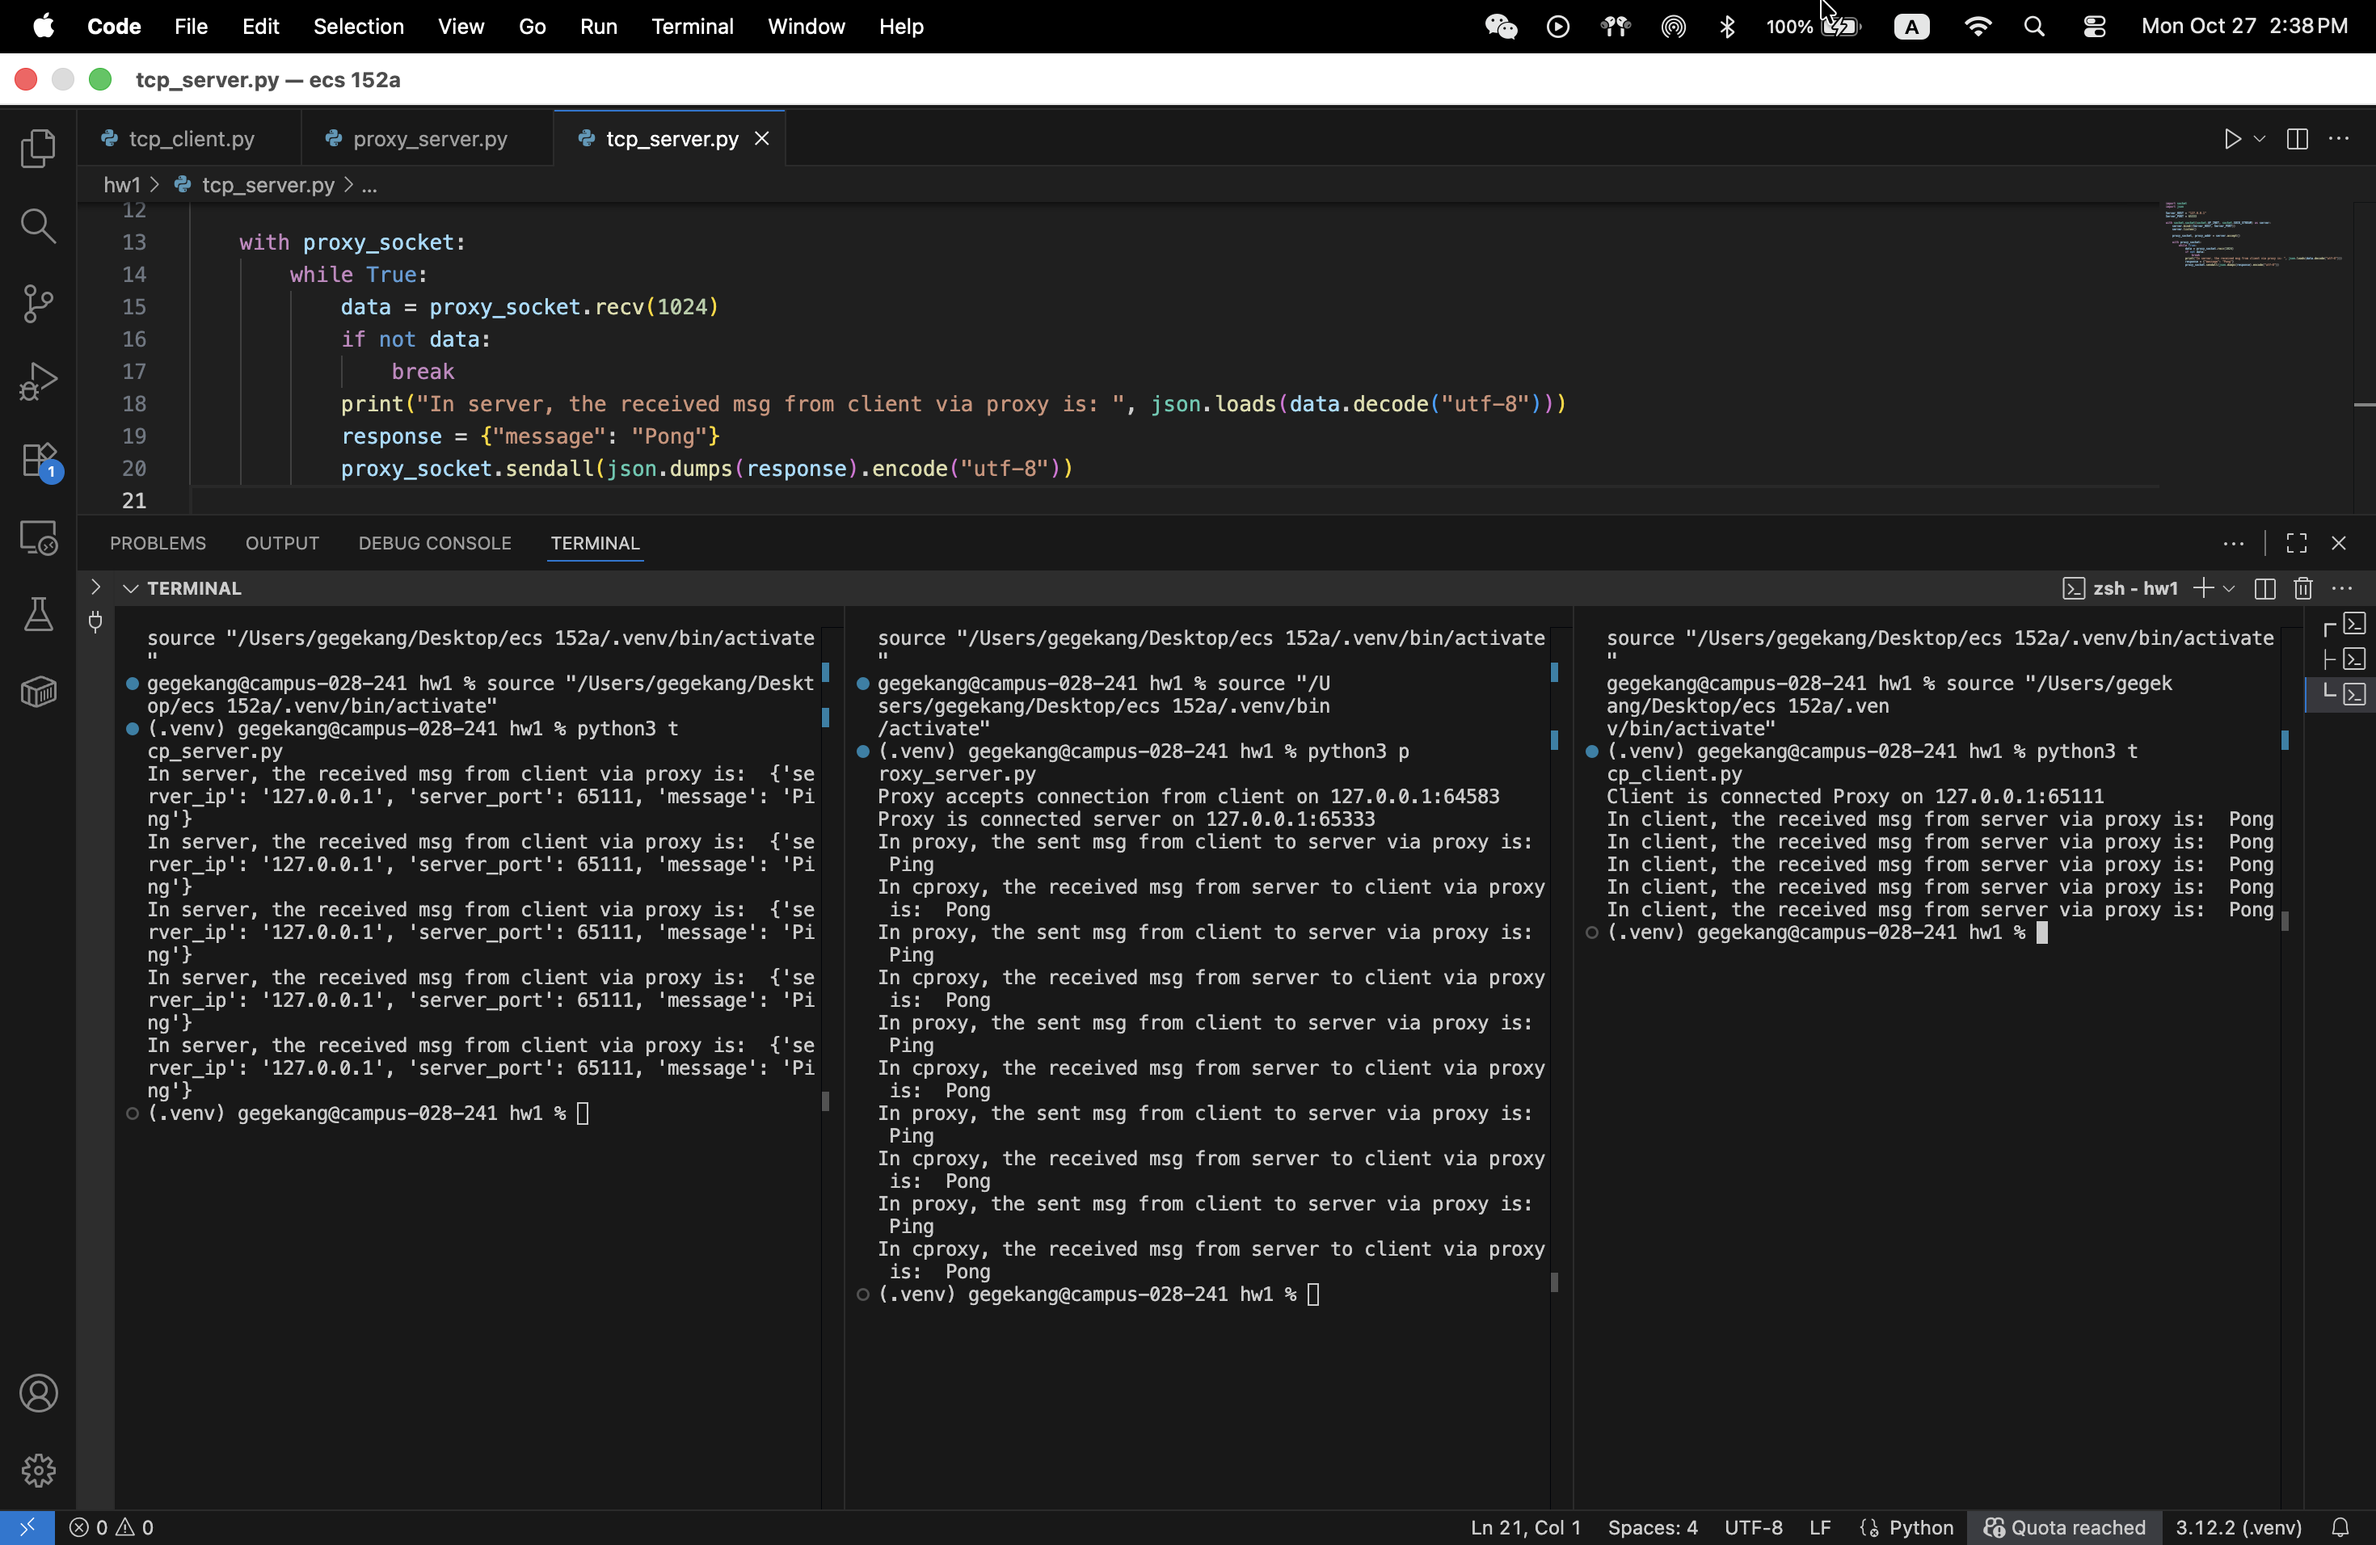
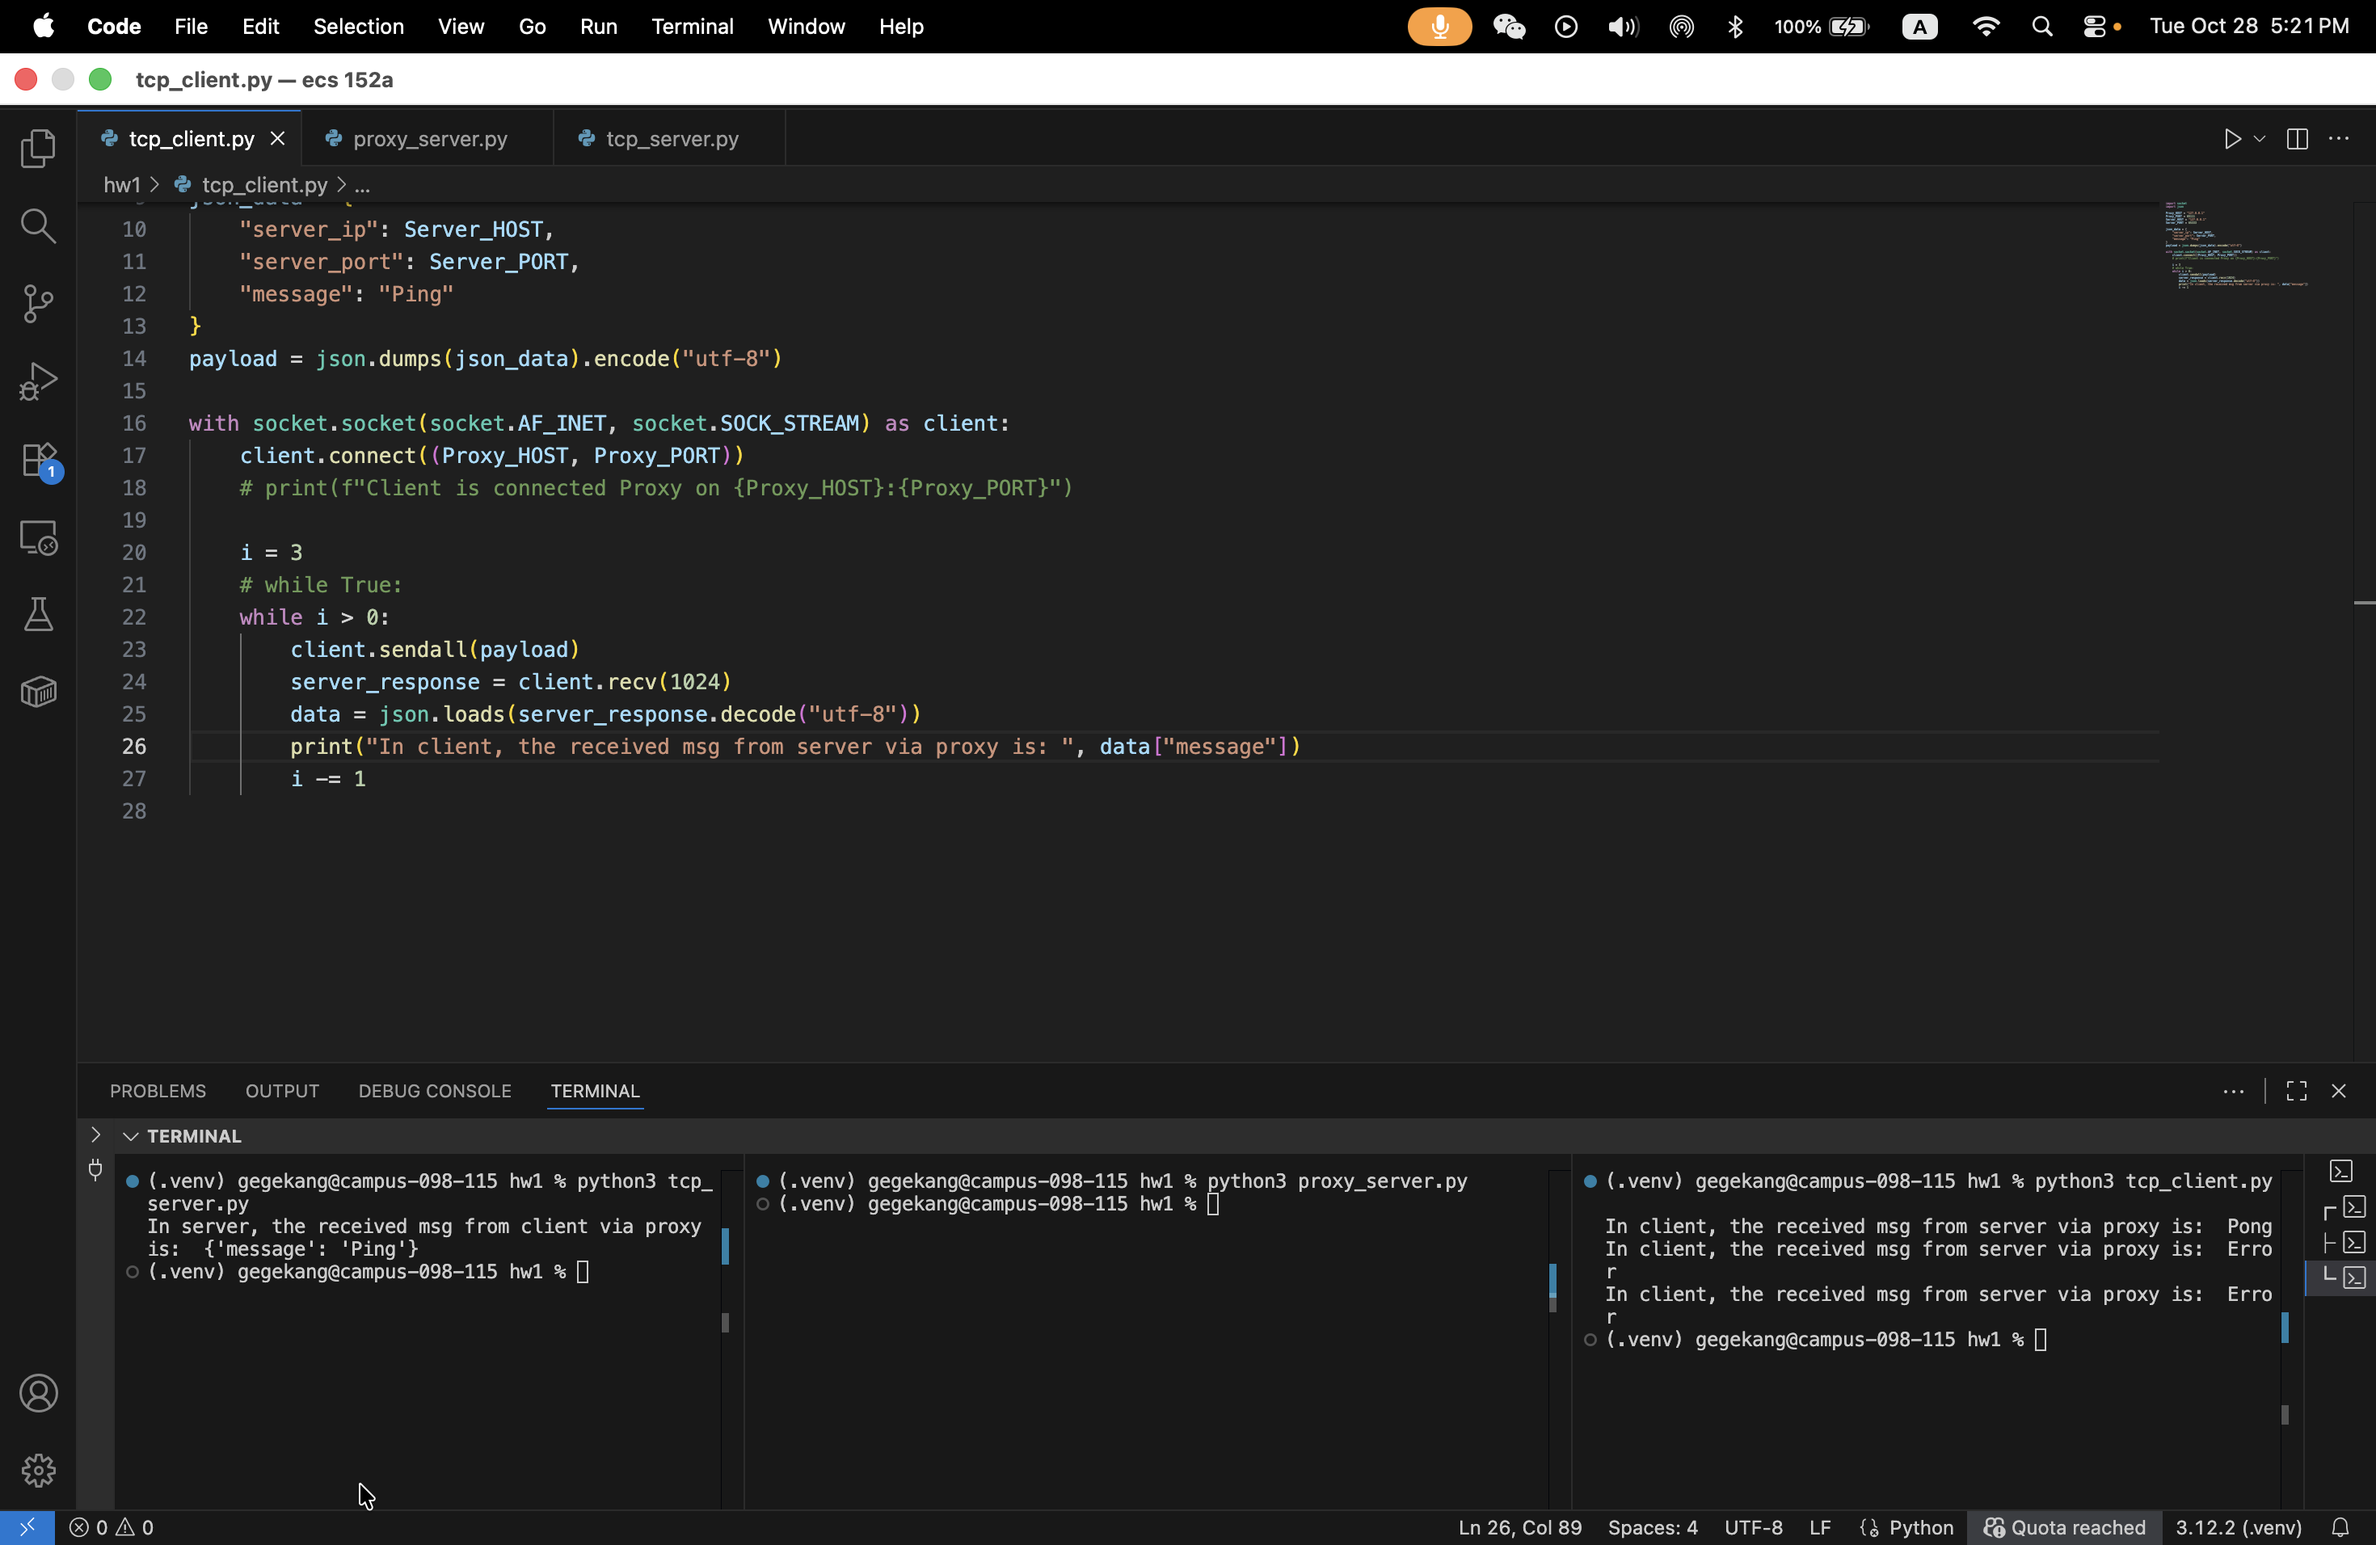
Updated Proxy-server

diff --git a/proxy-server/proxy_server.py b/proxy-server/proxy_server.py
@@ -1,29 +1,55 @@
 import socket
 import json
 
-HOST = "127.0.0.1"
+HOST = "127.0.0.1"  
 Proxy_PORT = 65111
-Server_PORT = 65333
+IP_block_list = []   
+error_msg = {"message": "Error"}
+
 
 with socket.socket(socket.AF_INET, socket.SOCK_STREAM) as proxy:
     # listen for client, aka, client -> proxy
-    proxy.bind((HOST,Proxy_PORT))
+    proxy.bind((HOST, Proxy_PORT))
     proxy.listen()
     client_socket, client_addr = proxy.accept()
     c_ip, c_port = client_addr
-    print(f"Proxy accepts connection from client on {c_ip}:{c_port}")
+    # print(f"Proxy accepts connection from client on {c_ip}:{c_port}")
 
-    # send to server, aka, proxy -> server
-    with client_socket, socket.socket(socket.AF_INET, socket.SOCK_STREAM) as server:
-        server.connect((HOST, Server_PORT))
-        print(f"Proxy is connected server on {HOST}:{Server_PORT}")
+    with client_socket:
+        dest_ip = None
+        dest_port = None
+
         while True: 
-            data = client_socket.recv(1024)
-            if not data: 
-                break
-            server.sendall(data)
+            client_packet_raw = client_socket.recv(1024)
 
-            print("In proxy, the sent msg from client to server via proxy is: ", (json.loads(data.decode("utf-8")))["message"])
-            server_response = server.recv(1024)
-            client_socket.sendall(server_response)
-            print("In cproxy, the received msg from server to client via proxy is: ", (json.loads(server_response.decode("utf-8")))["message"])
+            if not client_packet_raw: break
+
+            client_packet = json.loads(client_packet_raw.decode("utf-8"))
+            dest_ip,dest_port, client_msg = client_packet["server_ip"], client_packet["server_port"], client_packet["message"]
+
+            # already in blocklist
+            if dest_ip is not None and (dest_ip, dest_port) in IP_block_list:
+                # print("In the BLOCK_LIST. NO FORWARDING")
+                client_socket.sendall(json.dumps(error_msg).encode("utf-8"))
+                continue
+
+            # not in blocklist
+            if dest_ip is None or (dest_ip, dest_port) not in IP_block_list:
+                    
+                    server_socket = socket.socket(socket.AF_INET, socket.SOCK_STREAM)
+                    server_socket.connect((dest_ip, dest_port))
+                    # print(f"Proxy is connected server on {dest_ip}:{dest_port}")
+
+                    to_server_client_msg = json.dumps({"message": client_msg}).encode("utf-8")
+                    server_socket.sendall(to_server_client_msg)
+
+                    server_response = server_socket.recv(1024)
+                    client_socket.sendall(server_response)
+                    
+                    IP_block_list.append((dest_ip, dest_port))
+                         
+
+
+
+
+

diff --git a/proxy-server/tcp_client.py b/proxy-server/tcp_client.py
@@ -1,21 +1,25 @@
-import socket 
-import json 
+import socket
+import json
+
 Proxy_HOST = "127.0.0.1"
 Proxy_PORT = 65111
+Server_HOST = "127.0.0.1"
+Server_PORT = 65333
 
 json_data = {
-    "server_ip":Proxy_HOST,
-    "server_port":Proxy_PORT,
-    "message": "Ping"
-
+    "server_ip": Server_HOST,     
+    "server_port": Server_PORT,  
+    "message": "Ping"          
 }
 payload = json.dumps(json_data).encode("utf-8")
+
 with socket.socket(socket.AF_INET, socket.SOCK_STREAM) as client:
     client.connect((Proxy_HOST, Proxy_PORT))
-    print(f"Client is connected Proxy on {Proxy_HOST}:{Proxy_PORT}")
-    i = 5
-    #while True: 
-    while i > 0:
+    # print(f"Client is connected Proxy on {Proxy_HOST}:{Proxy_PORT}")
+
+    i = 3
+    # while True:
+    while i > 0: 
         client.sendall(payload)
         server_response = client.recv(1024)
         data = json.loads(server_response.decode("utf-8"))

diff --git a/proxy-server/tcp_server.py b/proxy-server/tcp_server.py
@@ -1,5 +1,5 @@
 import socket
-import json 
+import json
 
 Server_HOST = "127.0.0.1"
 Server_PORT = 65333
@@ -18,4 +18,3 @@ with socket.socket(socket.AF_INET, socket.SOCK_STREAM) as server:
             print("In server, the received msg from client via proxy is: ", json.loads(data.decode("utf-8")))
             response = {"message": "Pong"}
             proxy_socket.sendall(json.dumps(response).encode("utf-8"))
-
